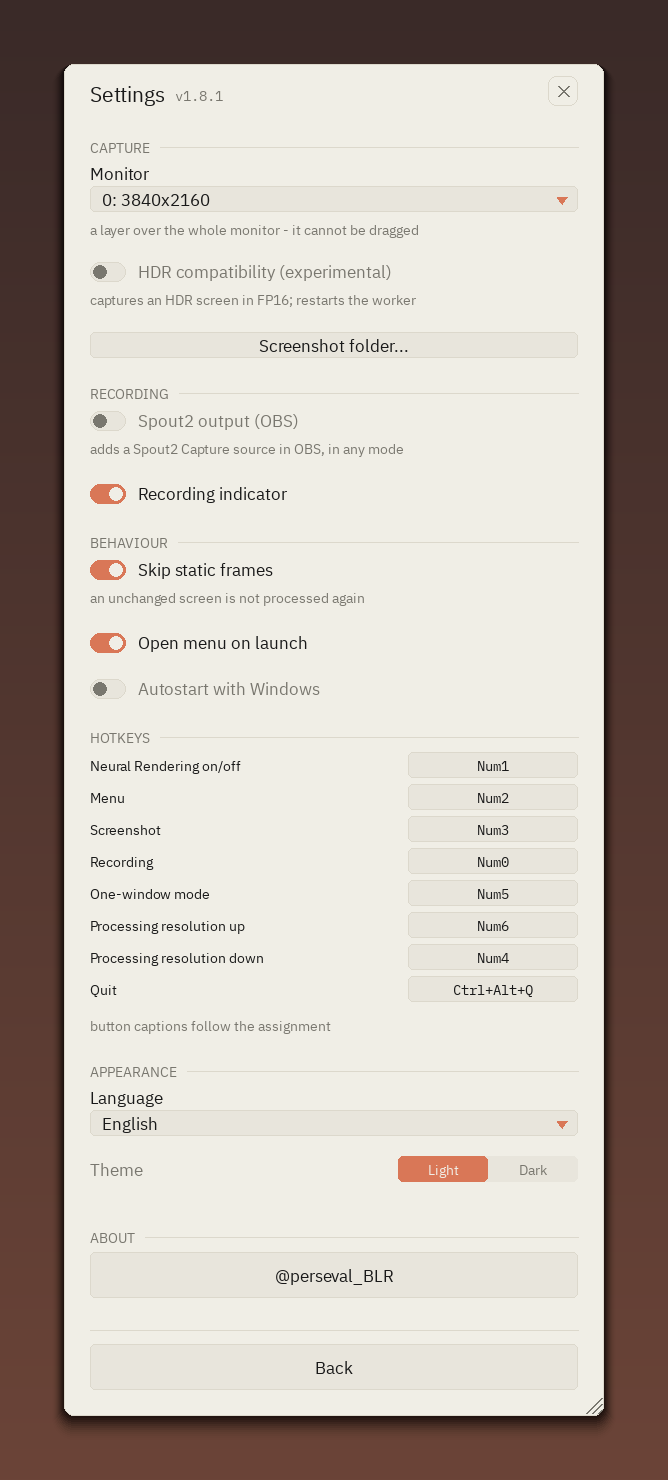
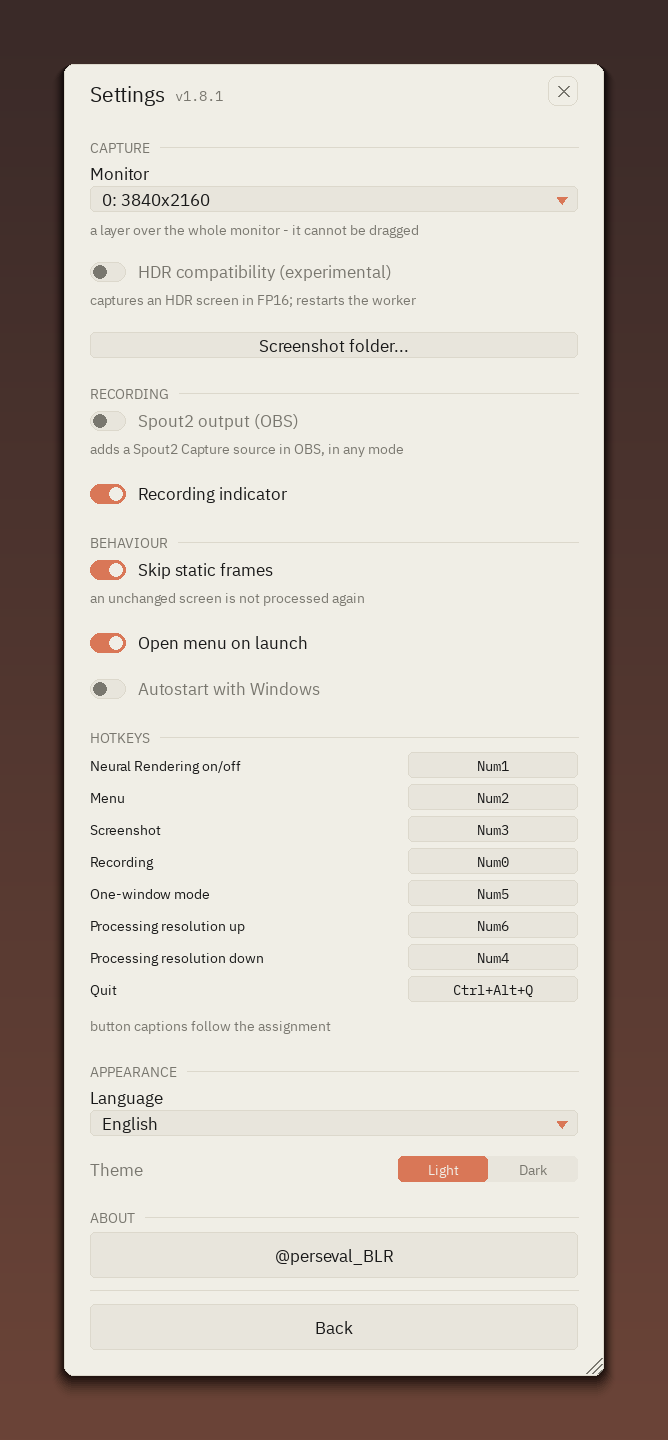
ui: an alert belongs at the top centre of the screen, not of the overlay
It was centred on the overlay, and the overlay is the whole monitor only
in full-screen mode. In one-window mode it is the size of the captured
window and sits on it, so an alert about the graphics card or the monitor
turned up in the middle of somebody's browser (user, 13.09).

It is placed against the monitor now - found from the overlay's own window
- and clamped into the overlay, because an alert drawn outside it is an
alert nobody sees. A window in the bottom corner still gets one, as high
and as central as that window allows; a window touching the top of the
screen gets the real margin.

And the gap from the top is a fixed number of scaled pixels rather than a
share of the height. 4.5% is 65 px on a 1440-tall screen and 13 px on a
window 300 tall, and neither of those is the small margin that was asked
for.

The placement moved into _alert_rect so it can be asked directly:
test_alert_position drives seven geometries - full screen, a window in the
middle, one touching the top, one in the bottom corner, one smaller than
the alert itself, a second monitor whose corner is not (0,0), and no
geometry at all.

Also, two holes at the bottom of the settings page (user, 13.09): the
theme row added a gap that segmented() and section() already provide
between them, and the channel button added a full PAD on top of the
footer's own rule and spacing. The panel is 1312 px instead of 1352 with
nothing moved closer than it should be.

diff --git a/tests/test_alert_position.py b/tests/test_alert_position.py
@@ -1,0 +1,123 @@
+"""An alert belongs at the top centre of the SCREEN, wherever the overlay is.
+
+It was centred on the overlay, which is the whole monitor only in
+full-screen mode. In one-window mode the overlay is the size of the
+captured window and sits on it, so an alert about the graphics card or the
+monitor turned up in the middle of somebody's browser (user, 13.09).
+
+And the gap from the top was a share of the height - 4.5%. That is 65 px on
+a 1440-tall screen and 13 px on a window 300 tall, which is not the same
+margin by any reading of the word.
+
+So: placed against the monitor, a fixed scaled margin below its top edge,
+and clamped into the overlay - because an alert drawn outside the overlay
+is an alert nobody sees. A window in the bottom corner of the screen still
+gets one, as high and as central as that window allows.
+
+Geometry only: _alert_rect is asked directly, with the monitor and the
+overlay's own position stubbed. No window, no worker.
+
+Run:  runtime\\python.exe tests\\test_alert_position.py
+"""
+import os
+import sys
+from pathlib import Path
+
+BASE = Path(__file__).resolve().parent.parent
+sys.path.insert(0, str(BASE))
+os.environ.setdefault("SDL_VIDEODRIVER", "dummy")
+
+SCREEN = (0, 0, 2560, 1440)
+
+
+def main() -> int:
+    import pygame
+    pygame.init()
+    import display as D
+
+    failures = []
+    disp = object.__new__(D.Display)      # no window, no pygame display
+    disp.ui_scale = 1.0
+    W, H = 420, 80                        # a plausible alert box
+
+    def place(overlay_w, overlay_h, own_xy, screen=SCREEN):
+        disp.width, disp.height = overlay_w, overlay_h
+        disp._screen_rect = lambda: screen
+        disp._own_rect = lambda: (own_xy[0], own_xy[1], overlay_w, overlay_h)
+        return D.Display._alert_rect(disp, W, H)
+
+    margin = int(round(D.ALERT_TOP_MARGIN * disp.ui_scale))
+
+    # 1. Full screen: the overlay IS the monitor.
+    r = place(2560, 1440, (0, 0))
+    print(f"    full screen:      {r}")
+    if r.centerx != 1280:
+        failures.append(f"not centred on the screen: centre {r.centerx}, want 1280")
+    if r.y != margin:
+        failures.append(f"the top gap is {r.y}, want {margin}")
+
+    # 2. One window, somewhere in the middle. Horizontally the alert still
+    #    aims at the centre of the SCREEN. Vertically it cannot reach the
+    #    top of the screen - the window starts 100 px below it - so it sits
+    #    at the window's own top edge, which is as high as it can go.
+    r = place(1600, 900, (400, 100))
+    print(f"    window at 400,100: {r} (screen centre is at x={1280 - 400} here)")
+    if r.centerx != 1280 - 400:
+        failures.append(f"the alert followed the window instead of the screen: "
+                        f"centre {r.centerx}, want {1280 - 400}")
+    if r.y != 8:
+        failures.append(f"the top is {r.y}, want 8 - as high as this window "
+                        f"reaches")
+
+    # 2b. A window that DOES touch the top of the screen gets the real
+    #     margin, not the clamp.
+    r = place(1200, 800, (600, 0))
+    print(f"    window at 600,0:   {r}")
+    if r.y != margin:
+        failures.append(f"a window at the top of the screen got {r.y}, "
+                        f"want the margin {margin}")
+    if r.centerx != 1280 - 600:
+        failures.append(f"centre {r.centerx}, want {1280 - 600}")
+
+    # 3. A window in the bottom-right corner: the screen's top centre is far
+    #    outside it, so the alert clamps to this window's own top left area
+    #    and stays fully inside.
+    r = place(600, 400, (1900, 1000))
+    print(f"    window bottom-right: {r}")
+    if not (0 <= r.x and r.right <= 600 and 0 <= r.y and r.bottom <= 400):
+        failures.append(f"the alert left the overlay: {r} in 600x400")
+
+    # 4. A window smaller than the alert: it still has to be drawn, not
+    #    pushed to a negative corner.
+    r = place(300, 60, (100, 100))
+    print(f"    window smaller than the alert: {r}")
+    if r.x < 0 or r.y < 0:
+        failures.append(f"a too-small overlay put the alert off its own edge: {r}")
+
+    # 5. A second monitor, whose corner is not (0, 0).
+    r = place(1920, 1080, (2560, 0), screen=(2560, 0, 1920, 1080))
+    print(f"    second monitor:   {r}")
+    if r.centerx != 960:
+        failures.append(f"on a second monitor the alert is at {r.centerx}, "
+                        f"want 960 - the origin was not subtracted")
+
+    # 6. Nothing answers (no window yet): fall back to the overlay's own
+    #    centre rather than crash or draw off-screen.
+    disp.width, disp.height = 2560, 1440
+    disp._screen_rect = lambda: None
+    disp._own_rect = lambda: None
+    r = D.Display._alert_rect(disp, W, H)
+    print(f"    no geometry:      {r}")
+    if r.centerx != 1280 or r.y != margin:
+        failures.append(f"the fallback is wrong: {r}")
+
+    for f in failures:
+        print("FAIL:", f)
+    if failures:
+        return 1
+    print("OK: alerts sit at the top centre of the screen, and stay visible")
+    return 0
+
+
+if __name__ == "__main__":
+    sys.exit(main())

diff --git a/display.py b/display.py
@@ -27,6 +27,7 @@ from __future__ import annotations
 import ctypes
 import math
 import os
+import struct
 import sys
 import time
 from ctypes import wintypes
@@ -140,6 +141,11 @@ CJK_FONTS = fonts.CJK_FONTS
 FONT_SIZE = 18
 UI_BASE_HEIGHT = 1800
 ALERT_FONT_SIZE = 28
+# How far below the top of the SCREEN an alert sits, in unscaled pixels.
+# A fixed number, not a share of the height: 4.5% is 65 px on a 1440-tall
+# screen and 13 px on a 300-tall window, and neither of those is the same
+# margin (user, 13.09).
+ALERT_TOP_MARGIN = 28
 
 
 def ui_scale_for(height: int) -> float:
@@ -1447,12 +1453,81 @@ class Display:
         self.screen.blit(surf, (rect.x + dot_d + pad_x,
                                 rect.y + pad_y))
 
+    def _own_rect(self) -> tuple[int, int, int, int] | None:
+        """Where the overlay window itself sits on the desktop."""
+        try:
+            hwnd = pygame.display.get_wm_info()["window"]
+            rect = wintypes.RECT()
+            if not user32.GetWindowRect(ctypes.c_void_p(hwnd), ctypes.byref(rect)):
+                return None
+            return (rect.left, rect.top,
+                    rect.right - rect.left, rect.bottom - rect.top)
+        except Exception:
+            return None
+
+    def _screen_rect(self) -> tuple[int, int, int, int] | None:
+        """The monitor the overlay is on, in desktop coordinates."""
+        try:
+            hwnd = pygame.display.get_wm_info()["window"]
+            monitor = user32.MonitorFromWindow(ctypes.c_void_p(hwnd), 2)  # NEAREST
+            if not monitor:
+                return None
+            info = ctypes.create_string_buffer(40 + 32 * 2)
+            ctypes.memmove(info, struct.pack("<I", len(info)), 4)
+            if not user32.GetMonitorInfoW(ctypes.c_void_p(monitor), info):
+                return None
+            left, top, right, bottom = struct.unpack_from("<4i", info, 4)
+            return (left, top, right - left, bottom - top)
+        except Exception:
+            return None
+
+    def _alert_rect(self, w: int, h: int) -> "pygame.Rect":
+        """Where an alert of this size goes, in overlay-local pixels.
+
+        Against the MONITOR, not the overlay: the two are the same thing
+        only in full-screen mode, and in one-window mode the overlay is the
+        size of the window and sits on it. Clamped into the overlay, because
+        an alert drawn outside it is an alert nobody sees - a window in the
+        bottom corner still gets one, as high and as central as that window
+        allows.
+        """
+        margin = int(round(ALERT_TOP_MARGIN * self.ui_scale))
+        screen, own = self._screen_rect(), self._own_rect()
+        if screen is not None and own is not None:
+            x = screen[0] + screen[2] // 2 - own[0] - w // 2
+            y = screen[1] + margin - own[1]
+        else:
+            x, y = (self.width - w) // 2, margin
+        edge = int(round(8 * self.ui_scale))
+        if self.width > w + 2 * edge:
+            x = max(edge, min(x, self.width - w - edge))
+        else:
+            x = 0
+        if self.height > h + 2 * edge:
+            y = max(edge, min(y, self.height - h - edge))
+        else:
+            y = 0
+        return pygame.Rect(x, y, w, h)
+
     def _draw_alerts(self) -> None:
-        """Pop-up alert: the menu palette, top centre.
+        """Pop-up alert: the menu palette, top centre OF THE SCREEN.
 
         It used to hang a third of the way down, centred, as a dark slab with
         an amber border - it clashed with the overall look and got into the
         middle of the frame.
+
+        And then it was centred on the OVERLAY, which is the whole monitor
+        only in full-screen mode. In one-window mode the overlay is the size
+        of the window and sits on it, so an alert about the GPU or the
+        monitor appeared in the middle of somebody's browser (user, 13.09).
+        It is placed against the monitor now, and clamped so that it stays
+        visible when the overlay does not reach that spot - a window in the
+        bottom corner still gets its alert, as high and as central as that
+        window allows.
+
+        The gap from the top is a fixed number of scaled pixels rather than
+        a share of the height: 4.5% of a 1440-tall screen is 65 px and of a
+        window 300 tall is 13, and neither of those is "a small margin".
         """
         now = time.monotonic()
         self._alerts = [(text, expires) for text, expires in self._alerts if expires > now]
@@ -1465,7 +1540,7 @@ class Display:
         pad_y = int(round(14 * self.ui_scale))
         w = surf.get_width() + pad_x * 2
         h = surf.get_height() + pad_y * 2
-        rect = pygame.Rect((self.width - w) // 2, int(round(self.height * 0.045)), w, h)
+        rect = self._alert_rect(w, h)
         radius = int(round(10 * self.ui_scale))
         # The panel is opaque: translucency would blend with the chroma key and
         # give a dirty tint (the colour key does not cut out a blended colour).

diff --git a/overlay_ui.py b/overlay_ui.py
@@ -702,7 +702,9 @@ class OverlayMenu:
                    labels=[STRINGS[L].get(f"lang_{L}", L) for L in langs])
             segmented("theme", s["theme"], self.state.get("theme", "light"),
                       ["light", "dark"], [s["theme_light"], s["theme_dark"]])
-            cy += gap
+            # No extra gap here: segmented() already ends with one, and
+            # section() opens with its own - three stacked was a hole
+            # (user, 13.09: the padding below is excessive).
 
             # The channel label: the header shows the version, the channel
             # lives here (user rule 2026-09-08). A button item - the only
@@ -715,7 +717,9 @@ class OverlayMenu:
                 items.append(Item("button", "channel",
                                   pygame.Rect(pad, cy, inner_w, act_h),
                                   extra={"label": channel, "filled": False}))
-                cy += act_h + pad
+                # The footer below opens with its own rule and spacing; a
+                # full PAD on top of that was the second hole.
+                cy += act_h + self._u(6)
         else:
             section(s["sec_processing"])
             nr_on = bool(self.state.get("nr"))
